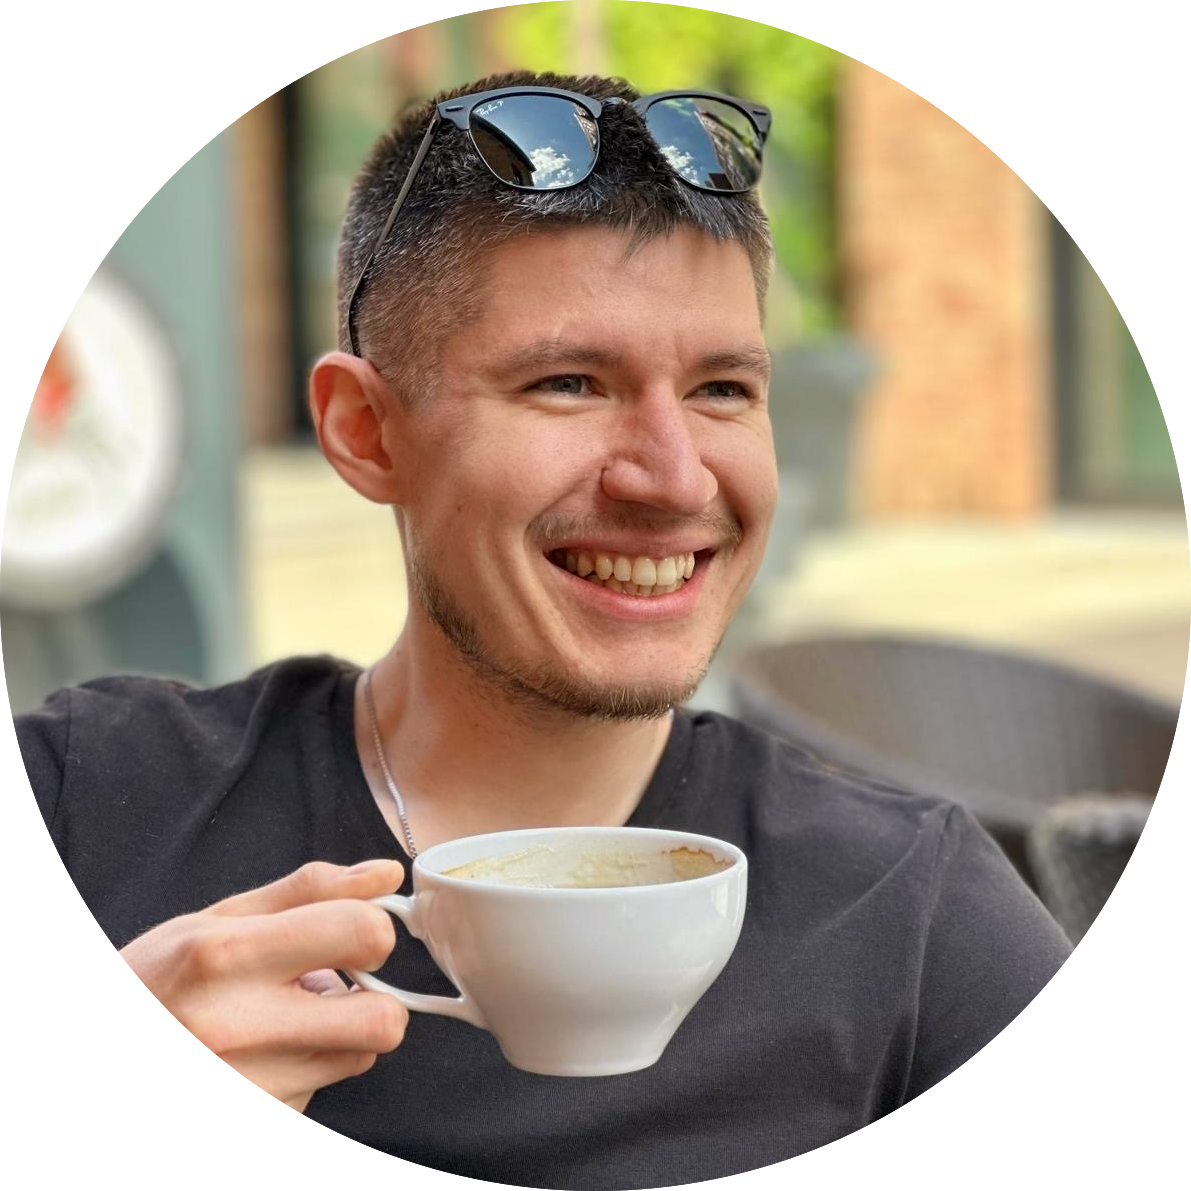
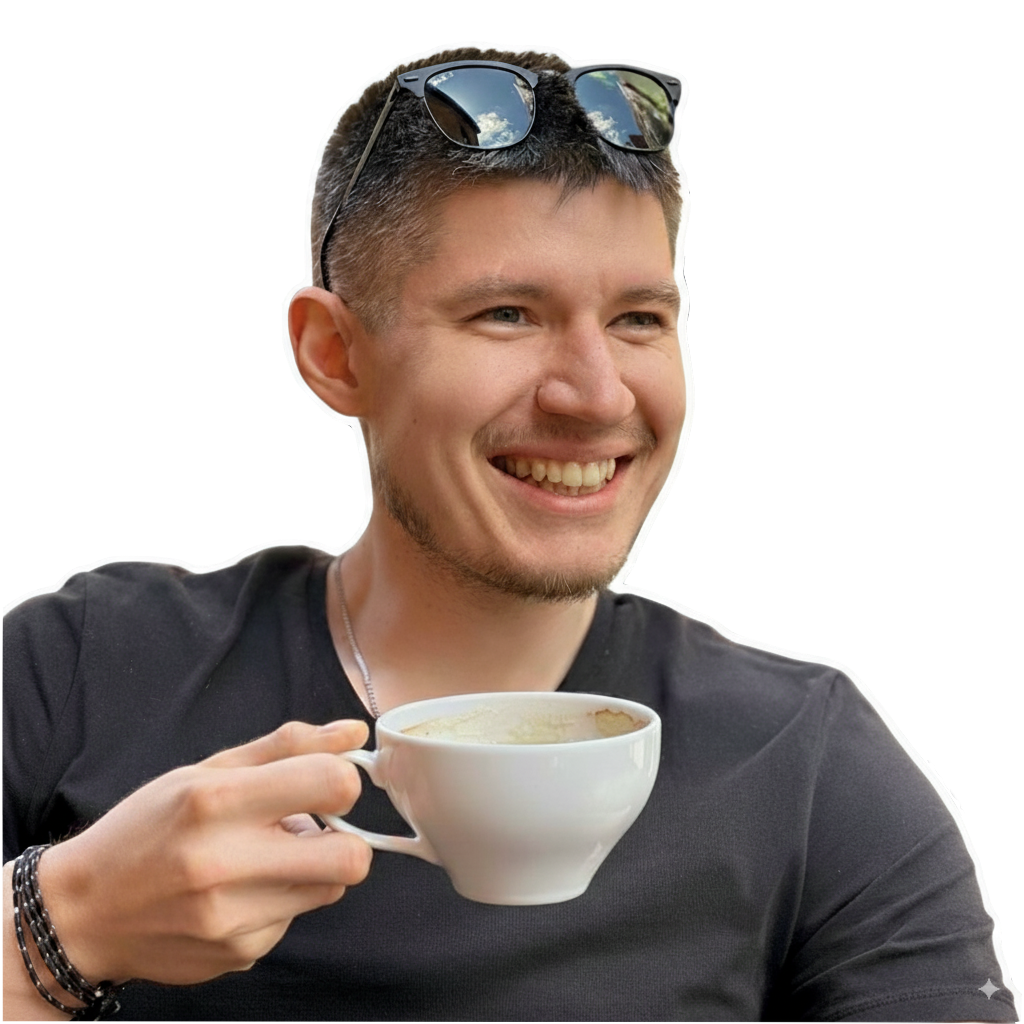
💄 UI styles redesign

diff --git a/assets/css/extended/_index.css b/assets/css/extended/_index.css
@@ -1,16 +1,30 @@
 :root {
-    --accent-light: linear-gradient(
+    --accent: #37428c;
+    --hero-img-border-width: 2px;
+    --hero-img-border-color: #080a0b;
+    --hero-img-max-size: 360px;
+    --hero-img-margin: 12px;
+    --hero-img-gradient: linear-gradient(
         to top right,
         #d000c9 0%,
         #0095c5 50%,
         #c8b700 100%
     );
-    --accent-dark: linear-gradient(
+    --hero-img-gradient-invert: linear-gradient(
         to top right,
-        #fd95df 0%,
-        #67e6ff 50%,
-        #f6fd6e 100%
+        #2fff36 0%,
+        #ff6a3a 50%,
+        #3748ff 100%
     );
+}
+
+:root .dark {
+    --accent: #fff77f;
+    --hero-img-border-color: #fafafa;
+}
+
+html {
+    overflow-y: auto;
 }
 
 .list {
@@ -22,37 +36,90 @@
 }
 
 .accent {
-    background: var(--accent-light);
-    background-clip: text;
-
-    color: transparent;
-}
-
-.dark .accent {
-    background: var(--accent-dark);
-    background-clip: text;
+    font-weight: 600;
+    font-style: italic;
 }
 
 .accent a {
-    color: transparent;
-
-    border-bottom: solid 1px;
-    border-image: var(--accent-light) 1 stretch;
+    box-shadow: none;
+    border-bottom: solid 1px transparent;
 }
 
-.dark .accent a {
-    border-image: var(--accent-dark) 1 stretch;
+.accent a:hover {
+    color: var(--accent);
+    border-color: var(--accent);
+}
+
+.hero-img-wrapper-outer {
+    position: relative;
+    display: flex;
+
+    margin: auto;
+
+    border-radius: 50%;
+
+    background: var(--hero-img-gradient);
+
+    width: var(--hero-img-max-size);
+    height: var(--hero-img-max-size);
+
+    transition: transform 0.3s ease;
+}
+
+.hero-img-wrapper-inner {
+    display: flex;
+
+    flex: 1;
+
+    margin: var(--hero-img-margin);
+
+    border-radius: var(--hero-img-margin);
+
+    overflow: hidden;
+}
+
+.hero-img-wrapper-inner:before {
+    content: '';
+
+    flex: 1;
+
+    background: var(--hero-img-gradient-invert);
+
+    border-radius: 50%;
+
+    margin: calc(-1 * var(--hero-img-margin));
+}
+
+.hero-img-wrapper-inner:after {
+    content: '';
+
+    position: absolute;
+
+    top: var(--hero-img-margin);
+    left: var(--hero-img-margin);
+    bottom: var(--hero-img-margin);
+    right: var(--hero-img-margin);
+
+    border-radius: var(--hero-img-margin);
+    border: solid var(--hero-img-border-width) var(--hero-img-border-color);
 }
 
 .hero-img {
-    margin: auto !important;
+    position: absolute;
+
+    top: 0;
+    left: 0;
+    bottom: 0;
+    right: 0;
 
     width: 100%;
     height: 100%;
 
-    max-width: 360px;
-    max-height: 360px;
+    margin: 0 !important;
 
-    border: 1px solid var(--primary);
+    clip-path: inset(
+        calc(var(--hero-img-border-width) + var(--hero-img-margin))
+    );
+
     border-radius: 50% !important;
 }

diff --git a/assets/css/extended/socials.css b/assets/css/extended/socials.css
@@ -2,6 +2,7 @@
     display: flex;
     justify-content: center;
     margin: 1rem 0 0 0;
+    font-weight: 500;
 }
 
 .social-icons a {
@@ -12,6 +13,14 @@
     padding: 0 0.5rem;
 }
 
+.social-icons a:hover {
+    color: var(--accent);
+}
+
+.social-icons a:hover .social-icon-caption {
+    border-color: var(--accent);
+}
+
 .social-icons svg {
     stroke-width: 1;
 }
@@ -19,5 +28,5 @@
 .social-icon-caption {
     font-size: 0.75rem;
     padding-top: 0.25rem;
-    font-weight: 500;
+    border-bottom: solid 1px transparent;
 }

diff --git a/layouts/shortcodes/hero-img.html b/layouts/shortcodes/hero-img.html
@@ -1,0 +1,14 @@
+{{- with .Page.Resources.Get (.Get "src") }}
+    {{ with .Resize (printf "%dx%d webp" .Width .Height) }}
+        <div class="hero-img-wrapper-outer">
+            <div class="hero-img-wrapper-inner">
+                <img
+                    class="hero-img"
+                    src="{{ .RelPermalink }}"
+                    width="{{ .Width }}"
+                    height="{{ .Height }}"
+                    alt="{{ $.Get "alt" }}" />
+            </div>
+        </div>
+    {{ end }}
+{{ end }}

diff --git a/layouts/partials/extend_head.html b/layouts/partials/extend_head.html
@@ -7,13 +7,9 @@
 <noscript>
     <style>
         @media (prefers-color-scheme: dark) {
-            .accent {
-                background: var(--accent-dark);
-                background-clip: text;
-            }
-
-            .accent a {
-                border-image: var(--accent-dark) 1 stretch;
+            :root {
+                --accent: #fff77f;
+                --hero-img-border-color: #fafafa;
             }
         }
     </style>

diff --git a/content/_index.md b/content/_index.md
@@ -8,7 +8,7 @@ description:
 disableAnchoredHeadings: true
 ---
 
-{{< image src="me.png" class="hero-img" alt="Artur Myszkowski" >}}
+{{< hero-img src="me.png" alt="Artur Myszkowski" >}}
 
 {{< socials "contact@arturmyszkowski.pl" >}}
 
